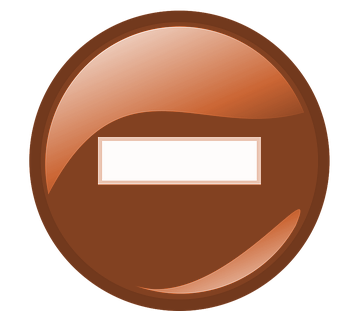
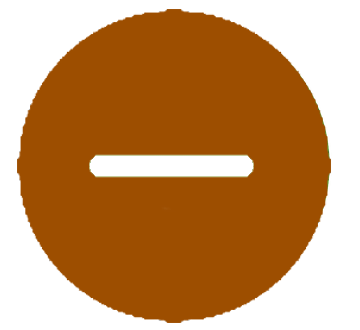
ajout btn + - haut bas gauche droite

diff --git a/src/browser/editor/EditorMap.js b/src/browser/editor/EditorMap.js
@@ -233,9 +233,12 @@ let EditorMap = ({ ZoomMinorEditMap,ZoomEditMap,camera,FullBlockRight,FullBlockT
               <h2>Zoom</h2>
               <div className="zoom">
 
-                {/*<div className="zoomPlus" onClick={() => ZoomEditMap(worldmap.camera,viewer,worldmap.worldmap.size_map)}></div>*/}
-                {/*<div className="zoomMoins" onClick={() => ZoomMinorEditMap(worldmap.camera,viewer,worldmap.worldmap.size_map,worldmap)}></div>*/}
-
+                {<div className="zoomPlus" onClick={() => ZoomEditMap(worldmap.camera,viewer,worldmap.worldmap.size_map)}></div>}
+                {<div className="zoomMoins" onClick={() => ZoomMinorEditMap(worldmap.camera,viewer,worldmap.worldmap.size_map,worldmap)}></div>}
+                <div className="zoomHaut"></div>
+                <div className="zoomBas"></div>
+                <div className="zoomGauche"></div>
+                <div className="zoomDroite"></div>
               </div>
             </div>
           </div>

diff --git a/src/browser/app/App.scss b/src/browser/app/App.scss
@@ -132,6 +132,43 @@ Input.input-map-editor{
   float: left;
   margin: 0 10px;
 }
+.zoomHaut{
+  background: url(/assets/images/editor/btnhaut.png) no-repeat;
+  width: 40px;
+  height: 40px;
+  background-size: cover;
+  cursor: pointer;
+  float: left;
+  margin: 0 10px;
+}
+.zoomBas{
+  background: url(/assets/images/editor/btnbas.png) no-repeat;
+  width: 40px;
+  height: 44px;
+  background-size: cover;
+  cursor: pointer;
+  float: left;
+  margin: 0 10px;
+}
+.zoomGauche{
+  background: url(/assets/images/editor/btngauche.png) no-repeat;
+  width: 40px;
+  height: 40px;
+  background-size: cover;
+  cursor: pointer;
+  float: left;
+  margin: 0 10px;
+}
+.zoomDroite{
+  background: url(/assets/images/editor/btndroite.png) no-repeat;
+  width: 44px;
+  height: 40px;
+  background-size: cover;
+  cursor: pointer;
+  float: left;
+  margin: 0 10px;
+}
+
 
 .btn-editeur-exit{
   box-sizing: border-box;
